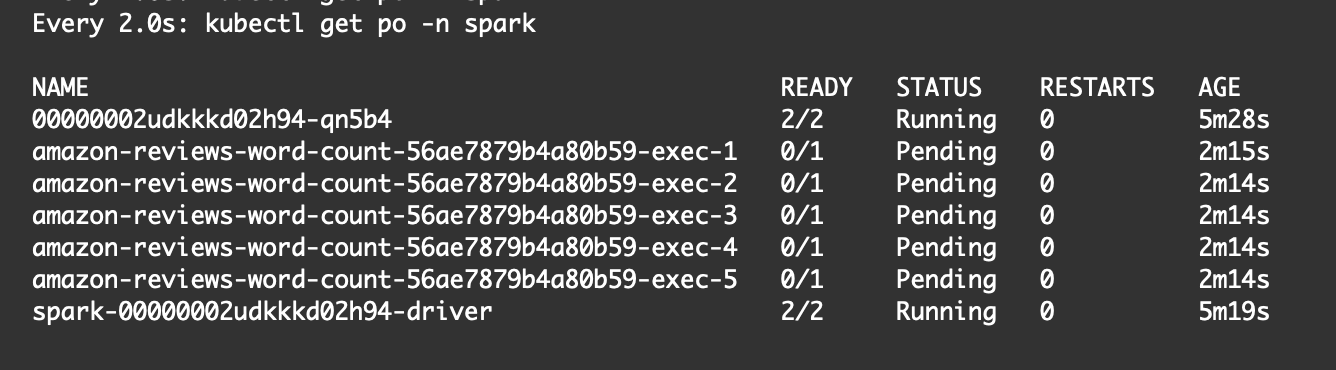
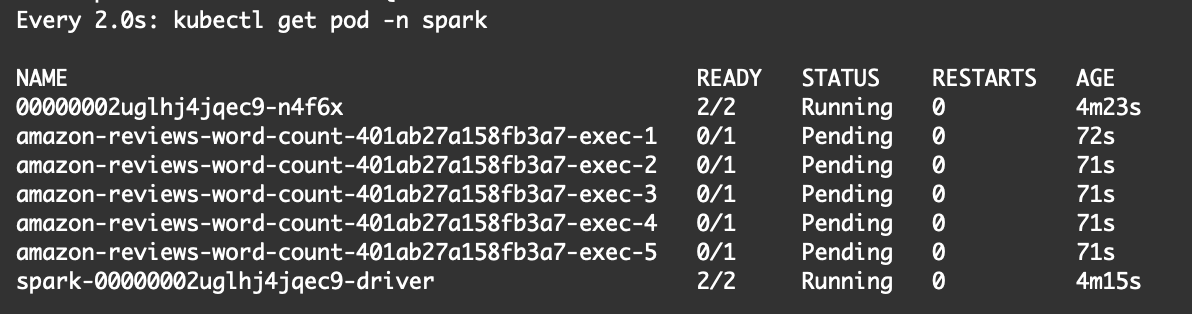
delete hanging job

Changed region(s): [[0.0, 0.2006, 0.8691, 0.9459], [0.9002, 0.2006, 0.9622, 0.9172], [0.0, 0.0, 0.4035, 0.1146]]

diff --git a/content/advanced/430_emr_on_eks/fargate_2.md b/content/advanced/430_emr_on_eks/fargate_2.md
@@ -13,6 +13,7 @@ Watch scaling status:
 ```sh
 watch kubectl get pod -n spark
 ```
+Press ctl+c to exit, then execute the command:
 ```sh
 watch kubectl get node \
 --label-columns=eks.amazonaws.com/capacityType,topology.kubernetes.io/zone
@@ -52,13 +53,14 @@ aws emr-containers start-job-run \
 
 Problem - the job is stuck with pending status.
 ```sh
-kubectl get pod -n spark
+watch kubectl get pod -n spark
 ```
+Wait for about 2 minutes. Press ctl+c to exit, as oon as the Spark driver is running. 
 ![](/images/emr-on-eks/job_hang.png)
 
-Check Spark driver's log once it's running.
+Check the driver’s log:
 ```sh
-driver_name=$(kubectl get po -n spark | grep "driver" | awk '{print $1}')
+driver_name=$(kubectl get pod -n spark | grep "driver" | awk '{print $1}')
 kubectl logs ${driver_name} -n spark -c spark-kubernetes-driver
 ```
 The job is not accepted by any resources:
@@ -66,8 +68,17 @@ The job is not accepted by any resources:
 
 Investigate a hanging executor pod:
 ```sh
-exec_name=$(kubectl get po -n spark | grep "exec-1" | awk '{print $1}')
-kubectl describe po ${exec_name} -n spark
+exec_name=$(kubectl get pod -n spark | grep "exec-1" | awk '{print $1}')
+kubectl describe pod ${exec_name} -n spark
 ```
 Congratulations! You found the root cause:
 ![](/images/emr-on-eks/executor_log.png)
+
+Delete the driver pod to stop the hanging job:
+```sh
+kubectl delete pod ${driver_name} -n spark
+
+# check job status
+kubectl get pod -n spark
+```
+![](/images/emr-on-eks/submitter_terminate.png)

diff --git a/content/advanced/430_emr_on_eks/fargate_1.md b/content/advanced/430_emr_on_eks/fargate_1.md
@@ -100,11 +100,11 @@ aws emr-containers start-job-run \
       "entryPointArguments":["'$s3DemoBucket'/output/"], 
       "sparkSubmitParameters": "--conf spark.kubernetes.driver.label.type=etl --conf spark.kubernetes.executor.label.type=etl --conf spark.executor.instances=8 --conf spark.executor.memory=2G --conf spark.driver.cores=1 --conf spark.executor.cores=3"}}' \
   --configuration-overrides '{
-  	"applicationConfiguration": [{
+    "applicationConfiguration": [{
         "classification": "spark-defaults", 
         "properties": {"spark.kubernetes.allocation.batch.size": "8"}
     }],
-  	"monitoringConfiguration": {
+    "monitoringConfiguration": {
       "s3MonitoringConfiguration": {
          "logUri": "'${s3DemoBucket}'/fargate-logs/"}}
   }'
